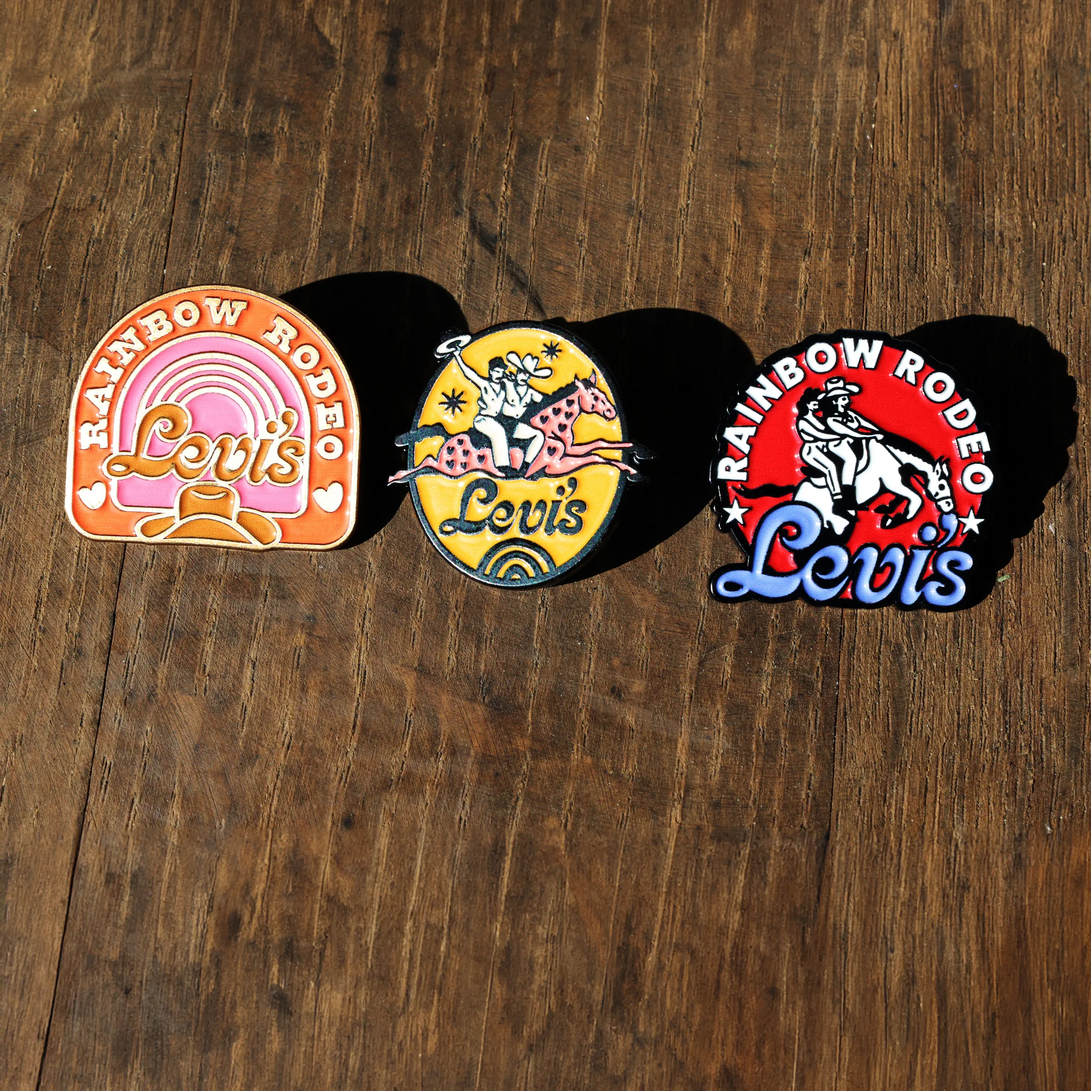
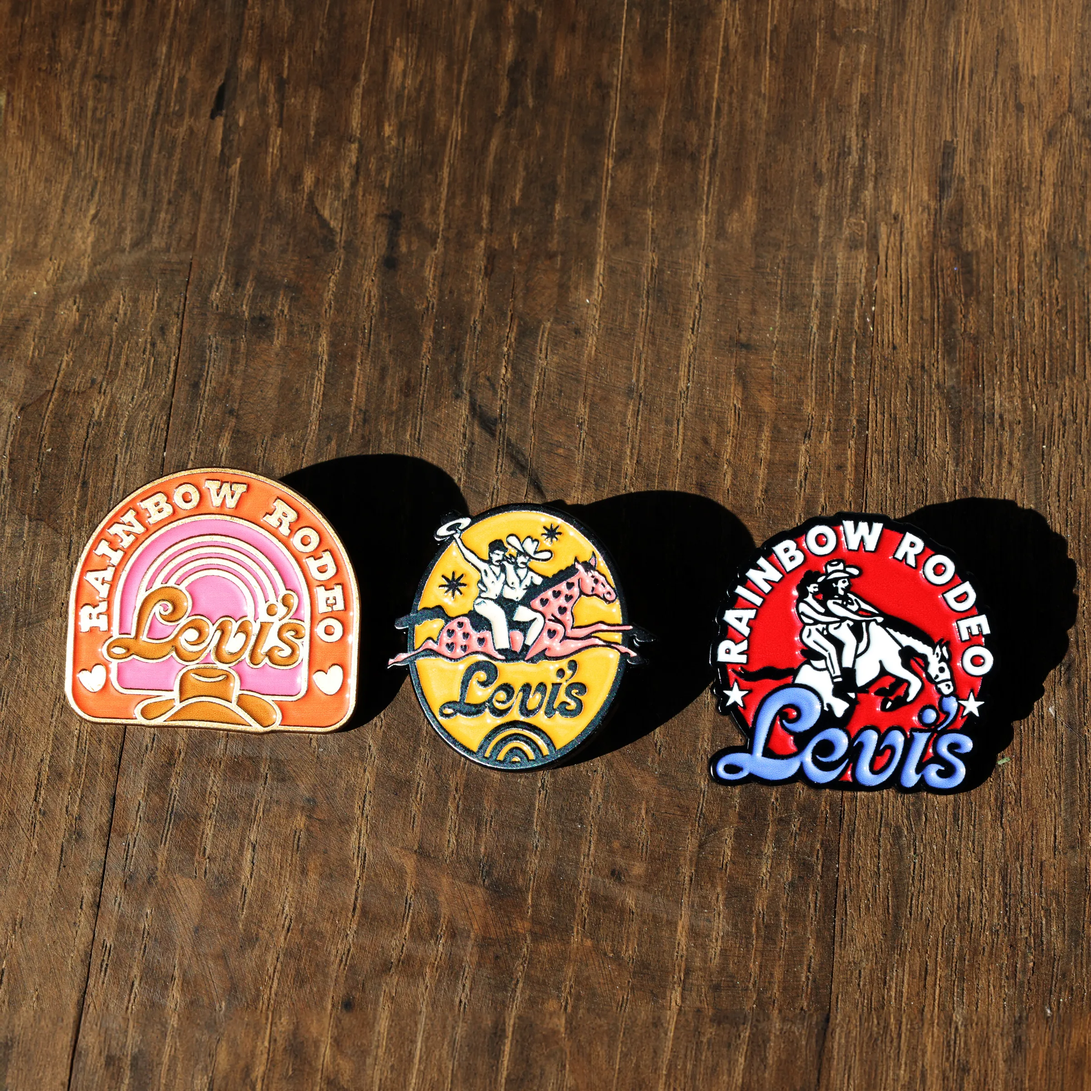
fix(work): give Rainbow Rodeo's card image a square frame, re-centre pins
Two fixes:
- cardRatio was missing, so WorkGallery's own ratio cycle kept
  assigning this card a tall frame regardless of the square image
  supplied — object-cover was cropping it right back into a vertical
  shot. Setting cardRatio: "1/1" makes the grid actually give it a
  square slot.
- The crop itself had the pins sitting in the upper third, with most
  of the empty wood below them. Recentred the extract window on the
  pins' actual vertical midpoint.

diff --git a/lib/projects.ts b/lib/projects.ts
@@ -644,7 +644,11 @@ export const projects: Project[] = [
     // The /work index card leads with a square crop of the same shot,
     // centred on all three pins with no detail cut off — the horizontal
     // hero above crops the sides to fit the project page's usual landscape
-    // treatment.
+    // treatment. cardRatio forces the masonry grid to actually give this
+    // card a square frame — without it, WorkGallery's own ratio cycle
+    // still decides the frame shape regardless of the image supplied, and
+    // object-cover crops the square photo right back into a tall one.
+    cardRatio: "1/1",
     cardImage: {
       ratio: "1/1",
       alt: "All three Rainbow Rodeo pin colourways, laid out together",
